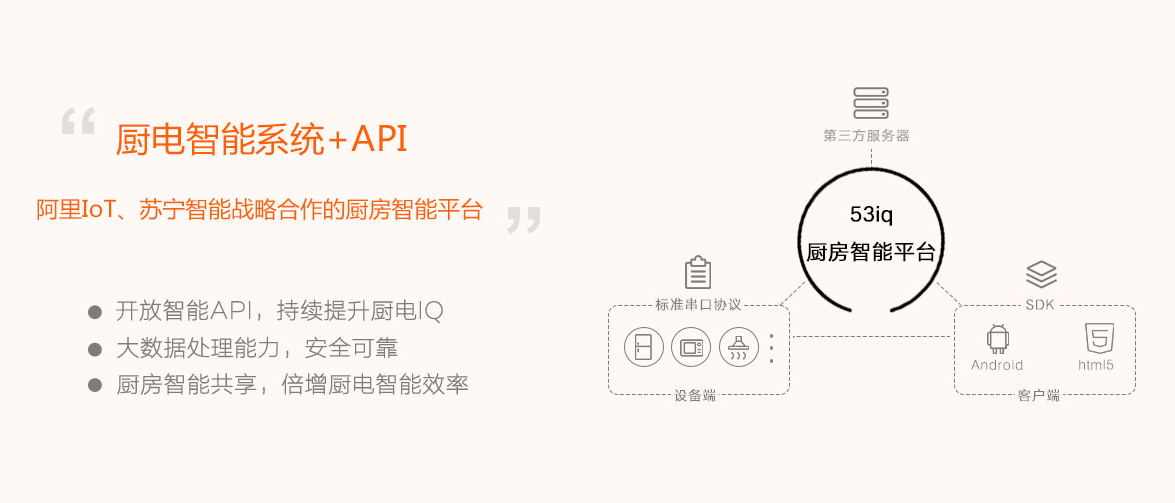
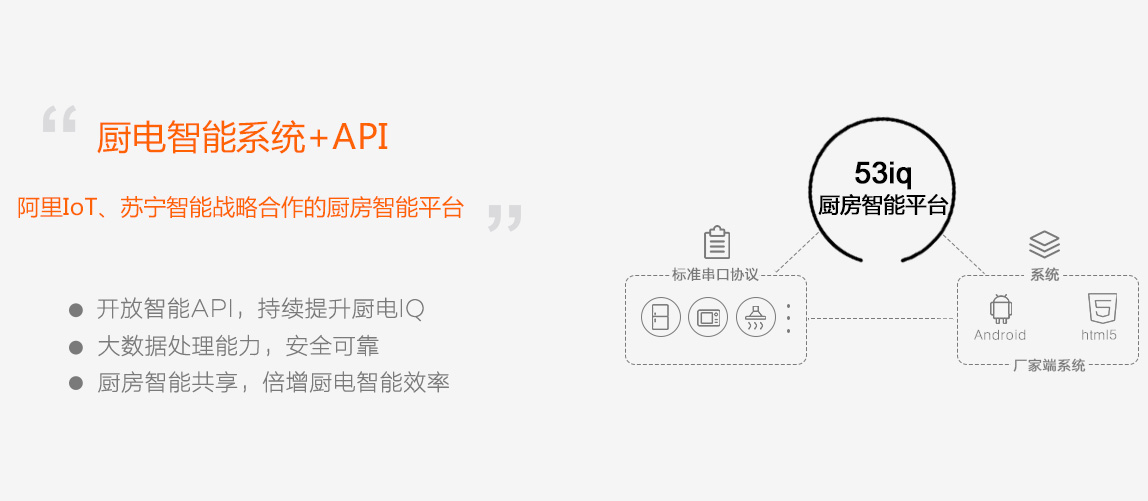
首页图片以及样式替换、产品管理页面修正

diff --git a/templates/product/list.html b/templates/product/list.html
@@ -110,7 +110,7 @@
 
     <div class="wrapper mt20">
         <!-- 已发布的产品 -->
-        <div class="title-sub"><span class="old">产品列表</span>
+        <div class="title-sub"><span class="old">我的产品</span>
             <div class="col-lg-9 col-md-9 col-sm-9" style="margin-top: -7px;text-align: right">
                     <a href="{% url "product/add" %}" class="btn btn-s-lg btn-success">
                         <i class="fa fa-plus"></i>
@@ -219,22 +219,15 @@
 
         </div>
         <div class="right">
-            <h3 style="font-size: 20px;color: #868586"><b>53iq 厨房智能产品开发到量产5步走</b></h3><br>
-            <span style="font-size: 16px;text-align: center;">更有完整的方案，SoC类产品真正免开发</span><br>
+            <h3 style="font-size: 20px;color: #868586"><b style="position: relative;left: -8%;">53iq 厨房智能产品开发到量产3步走</b></h3><br>
             <div class="set-float">
-                <img  src="/static/image/product/20180904-2.png"><p>功能定义》</p ><div class="set-radius"><span >1</span></div>
+                <img  src="/static/image/product/20180904-2.png"><p>定义产品》</p ><div class="set-radius"><span >1</span></div>
             </div>
             <div class="set-float" >
-                <img  src="/static/image/product/20180904-1.png"><p>APP界面》</p><div class="set-radius"><span>2</span></div>
+                <img  src="/static/image/product/20180904-4.png" style="padding-left: 20px;"><p>协议开发与调试》</p><div class="set-radius" style="margin-left: 34px;"><span>2</span></div>
             </div >
             <div class="set-float">
-                <img  src="/static/image/product/20180904-5.png"><p>硬件调试》</p><div class="set-radius"><span>3</span></div>
-            </div>
-            <div class="set-float">
-                <img  src="/static/image/product/20180904-4.png"><p>扩展功能》</p><div class="set-radius"><span>4</span></div>
-            </div>
-            <div class="set-float">
-                <img  src="/static/image/product/20180904-3.png"><p>批量投产</p><div class="set-radius"><span>5</span></div>
+                <img  src="/static/image/product/20180904-1.png"><p>UI设计》</p><div class="set-radius"><span>3</span></div>
             </div>
         </div>
 

diff --git a/templates/home/home.html b/templates/home/home.html
@@ -28,11 +28,10 @@
         .nav-current{
             text-decoration:none; border-bottom: 3px solid #ff6202;height: 35px;
         }
-        h2, .h2{
-            color: #16DDDD;
-        }
+
         .m-project li {
             height: 150px;
+            margin-left: 144px;
         }
     </style>
 {% endblock %}
@@ -49,7 +48,7 @@
         </div>
         <div class="bd">
             <ul>
-                <li style="background:#fef9f6"><img src="{% static 'image/home/banner1.jpg' %}" width="1200"
+                <li style="background:#F5F5F5"><img src="{% static 'image/home/banner1.jpg' %}" width="1200"
                                                     height="500" alt=""></li>
                 <!--li style="background:#222222"><img src="/images/temp/banner2.png" width="1200" height="500" alt=""></li-->
             </ul>
@@ -70,25 +69,27 @@
     <!-- 合作项目 -->
     <div class="m-project">
         <div class="wrapper">
+            <h2 style="text-align: center;">3步快速完成智能化</h2>
             <ul class="cl">
                 <li class="p-list2">
                     <div class="text">
-                        <h2>1.注册 </h2>
+                        <h3>1.注册 </h3>
                     </div>
                 </li>
                 <li class="p-list3">
 
                     <div class="text">
-                        <h2>2.开发测试</h2>
+                        <h3>2.开发测试</h3>
                     </div>
                 </li>
                 <li class="p-list4">
                     <div class="text">
-                        <h2>3.发布生产</h2>
+                        <h3>3.发布生产</h3>
                     </div>
                 </li>
             </ul>
             <div class="wrapper">
+                <h2 style="text-align: center;">53iq 厨房智能</h2>
                  <img src="{% static 'image/home/znpt.jpg' %}"  style="position: relative;top: 20px;left:180px">
             </div>
             <div class="more">

diff --git a/templates/home/dynamic.html b/templates/home/dynamic.html
@@ -98,19 +98,13 @@
         <div class="col-lg-12 col-md-12 col-sm-12"><img class="ui-notify-img" src="{% static 'image/center/notify.png' %}">
             <div class="ui-notify-div"><p style="width: 70%;padding-left: 1%">厨电自助开发平台V1.0发布</p>
                 <p style="width: 19%">2017-090-06</p><span class="ui-span-line"></span>
-                <p style="width: 6%;text-align: center">更多</p></div>
+                <p style="width: 6%;text-align: center">详细</p></div>
         </div>
 
     </div>
 
     <div class="hbox1">
-        <h3>产品</h3>
-         <div class="col-lg-2 col-md-2 col-sm-2">
-                    <a href="{% url "product/add" %}" class="btn btn-s-lg btn-success btn-orange">
-                        <i class="fa fa-plus"></i>
-                        <span class="text">添加产品</span>
-                    </a>
-         </div>
+        <h3>动态</h3>
     </div>
     <div class="hbox">
         <ul>

diff --git a/static/css/home/main.css b/static/css/home/main.css
@@ -242,7 +242,7 @@ a.linkBlue,a.linkBlue:hover{ color:#37618f;}
 /*leftMenu*/
 .menuBox{ border-top:1px solid #f5f5f5; padding:10px 0;}
 .menuBox:first-child{ border-top:0;}
-.menuBox h3{ font-size:14px; font-weight:400; color:#bfbfbf; padding-left:70px; line-height:34px;}
+.menuBox h3{ font-size:14px; font-weight:400; color:#bfbfbf; padding-left:25px; line-height:34px;}
 .menuBox ul li{ height:55px; line-height:55px;}
 .menuBox ul li a{ display:block; height:55px; padding-left:35px; color:#333; font-size:14px;}
 .menuBox ul li:hover,.menuBox ul li.hover{ background:#e6e6e6;border-left: 3px solid #ff6202;color:#ff6202 }

diff --git a/templates/debug/debug_device.html b/templates/debug/debug_device.html
@@ -15,8 +15,8 @@
         }
         .menuBox h3{
             border-bottom: 1px solid #f5f5f5;
-            padding-left: 0;
-            text-align: center;
+            padding-left: 20px;
+
             font-size: 14px;
             font-weight: 400;
             color: #bfbfbf;
@@ -28,7 +28,7 @@
         }
 
         .activate{
-            background:#37618f;
+            background:#ff6202;
         }
         .activate a{
             color:#FFF !important;
